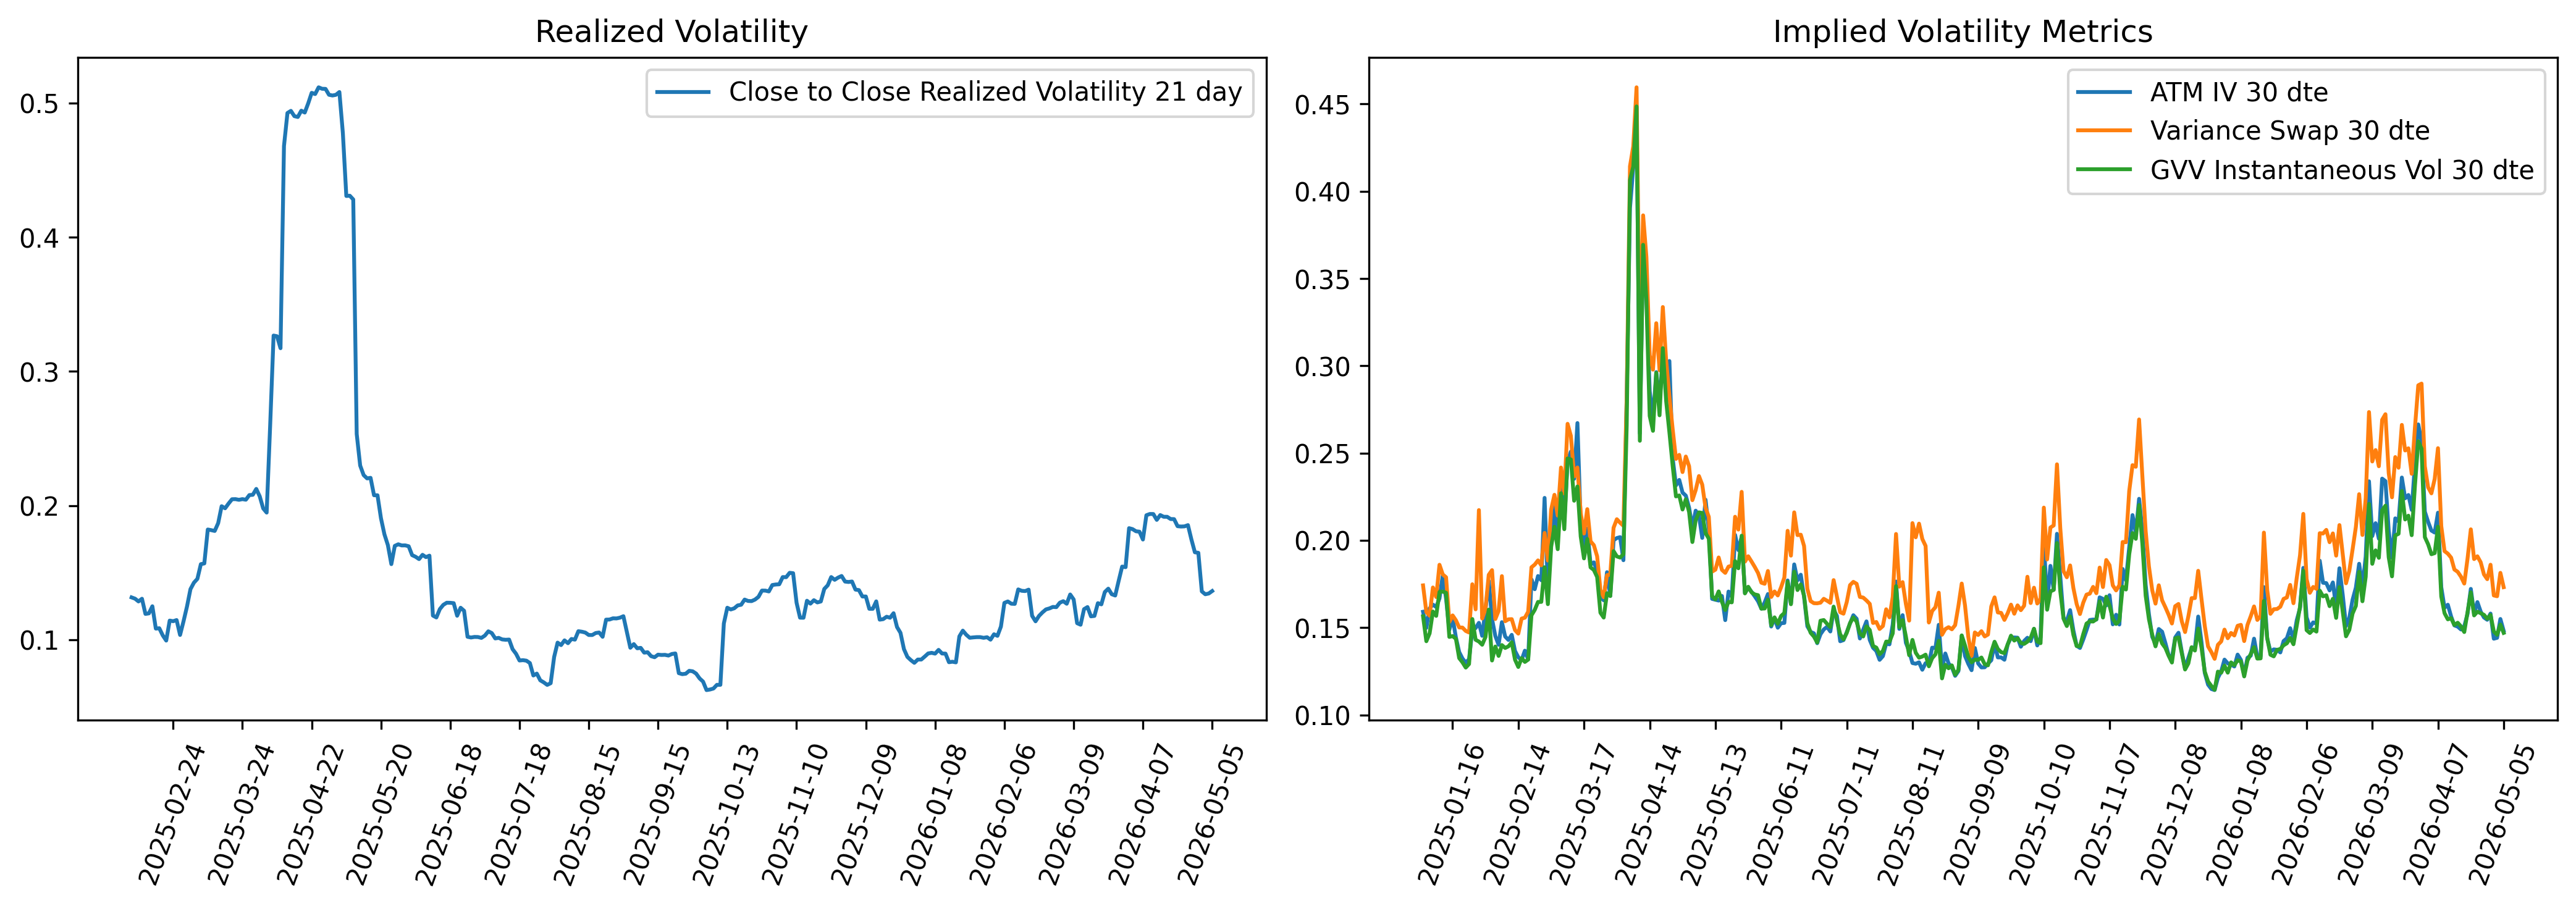
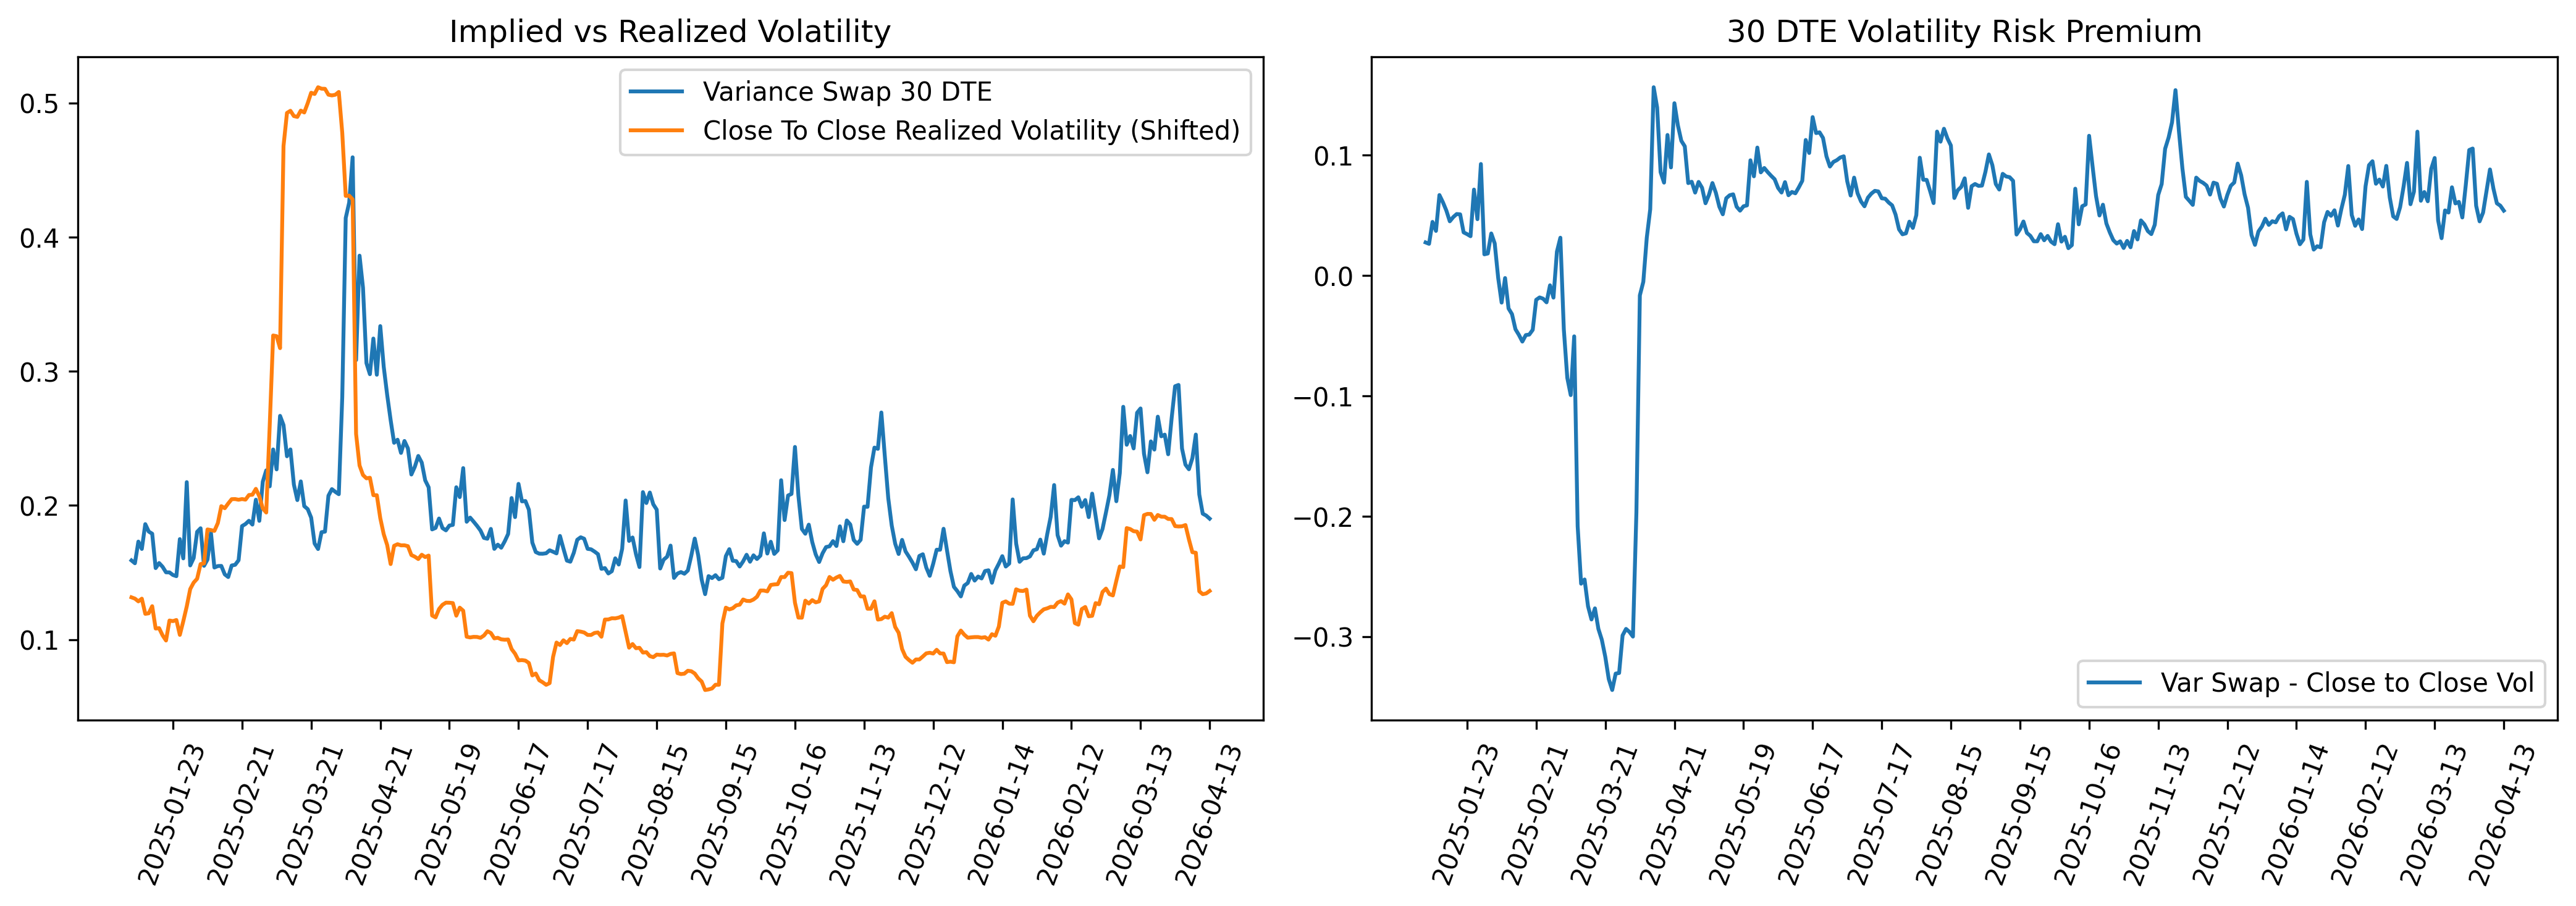
added function for adjusting photo width

diff --git a/public/css/hyde.css b/public/css/hyde.css
@@ -138,7 +138,7 @@ a.sidebar-nav-item:focus {
 
 @media (min-width: 48em) {
   .content {
-    max-width: 60rem;
+    max-width: 66rem;
     margin-left: 20rem;
     margin-right: 2rem;
   }
@@ -278,7 +278,7 @@ a.sidebar-nav-item:focus {
 /* Control image size inside blog posts */
 .post img,
 .page img {
-  max-width: 65%;
+  max-width: 75%;
   height: auto;
   margin-left: auto;
   margin-right: auto;

diff --git a/_posts/2026-05-24-Volatility-Surface-Risk-Premiums.md b/_posts/2026-05-24-Volatility-Surface-Risk-Premiums.md
@@ -13,10 +13,13 @@ In investing and trading a risk premium is some type of compensation investors r
 
 In general there are four things that need to occur in order for something to be a risk premium. 
 
-\1. It needs to persist over time, 
-\2. It needs to occurr over many asset classes.
-\3. It needs to be scalable in size
-\4. There needs to be a economic rationale to support it. 
+1. It needs to persist over time, 
+
+2. It needs to occurr over many asset classes.
+
+3. It needs to be scalable in size
+
+4. There needs to be a economic rationale to support it. 
 
 The most famous risk premium is probably the equity risk premium which is the reward investors get for buying stocks rather than parking your money in a risk free asset or bank account.
 
@@ -30,4 +33,8 @@ In the world of options and volatility this is by far the most commonly known ri
 
 In the below images we have the 21 day rolling realized volatility and three metrics for our implied part, a rolling iv, the rolling fixed leg of a variance swap and the instantaneous vol calculated from the GVV model (more on this in a future post). These are all calculated from a linear interpolation of the 30 dte closest maturity options.
 
-![Realized Volatility](/assets/images/SPY-Variance-Risk-Premium-Post-2026-05-24.png)
+![Realized Volatility](/assets/images/SPY-Realized-Implied-Volatility-Risk-Premium-Post-2026-05-24.png)
+
+We then find the rolling volatility risk premium using the difference between the fixed leg variance swap strike, and the rolling realized volatility. Note we shift back the realized volatility back to match the date projected by the implied. 
+
+![Volatility Risk Premium](/assets/images/SPY-Variance-Risk-Premium-Post-2026-05-24.png)